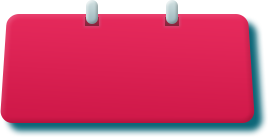
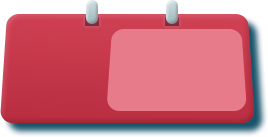
重连 调整效果

diff --git a/basketball_hot/minigame_basketball_hot/src/game/basket/MainScenePanel.ts b/basketball_hot/minigame_basketball_hot/src/game/basket/MainScenePanel.ts
@@ -39,6 +39,12 @@ module ui {
 		public label_score_other:eui.Label
 		public label_left_time:eui.Label
 		public img_juesha:eui.Image
+		public img_guide_circle:eui.Image
+		public img_guide_hand:eui.Image
+		public m_guide_group:eui.Group
+		public img_help:eui.Image
+		public btn_debug:eui.Button
+		public m_offline_tips:eui.Group
 
 		private _playerBall:PlayerBall
 		private _hitManager:HitManager
@@ -93,15 +99,35 @@ module ui {
 			this.m_container.addEventListener(egret.TouchEvent.TOUCH_BEGIN, this._onTouchBegin, this);
 			let __this = this
 			this.btn_help.addEventListener(egret.TouchEvent.TOUCH_BEGIN, function(event:egret.Event){
+				__this.img_help.visible = true
+				__this.img_help.scaleX = __this.img_help.scaleY = 0
+				egret.Tween.get(__this.img_help).to({"scaleX": 1, "scaleY": 1}, 0.2 *1000)
 				event.stopPropagation()
 			}.bind(this), this)
-			this.btn_help.addEventListener(egret.TouchEvent.TOUCH_TAP, function(event:egret.Event){
+
+			this.btn_help.addEventListener(egret.TouchEvent.TOUCH_END, function(event:egret.Event){
+			egret.Tween.get(__this.img_help).to({"scaleX": 1, "scaleY": 1}, 0.1 *1000).call(function(){
+					__this.img_help.visible = false
+				})
+			}.bind(this), this)
+
+			this.btn_help.addEventListener(egret.TouchEvent.TOUCH_CANCEL, function(event:egret.Event){
+				egret.Tween.get(__this.img_help).to({"scaleX": 1, "scaleY": 1}, 0.1 *1000).call(function(){
+					__this.img_help.visible = false
+				})
+			}.bind(this), this)
+
+			this.btn_debug.addEventListener(egret.TouchEvent.TOUCH_BEGIN, function(event:egret.Event){
+				let debugPanel = new DebugPanel()
+				this.addChild(debugPanel)
+				event.stopPropagation()
 			}.bind(this), this)
 		}
 
 		//真正开始游戏
 		public StartGame():void
 		{
+			this._showGuide()
 			this._hasGameStarted = true
 			this._is_first_round = true
 			this._hasTouchBegin = false //整个游戏是否点击
@@ -139,6 +165,33 @@ module ui {
 			this.UpdateScore()
 		}
 
+		private _showGuide():void
+		{
+			let value = egret.localStorage.getItem("guide4")
+			if(value){
+				return
+			}
+
+			let __this = this
+			this.img_guide_circle.visible = true
+			this.img_guide_circle.scaleX = this.img_guide_circle.scaleY = 1
+			egret.Tween.get(this.img_guide_circle, {loop:true}).to({scaleX:2, scaleY:2}, 0.5 * 1000).call(function(){
+				__this.img_guide_circle.scaleX = __this.img_guide_circle.scaleY = 1
+			})
+
+			this.img_guide_hand.visible = true
+			this.img_guide_hand.scaleX = this.img_guide_hand.scaleY = 2
+			this.m_guide_group.scaleX = this.m_guide_group.scaleY = 1
+			this.m_guide_group.visible = true
+			egret.Tween.get(__this.img_guide_hand, {loop:true}).to({scaleX:1.6, scaleY:1.6}, 0.3 * 1000).call(function(){
+				egret.Tween.get(__this.m_guide_group).to({scaleX:0.98, scaleY:0.98}, 0.2 * 1000, egret.Ease.sineIn).to({scaleX:1, scaleY:1}, 0.2 * 1000)
+			}).to({scaleX:1, scaleY:1}, 0.2 * 1000).call(function(){
+				__this.img_guide_hand.scaleX = __this.img_guide_hand.scaleY = 2
+			})
+			
+			// egret.localStorage.setItem("guide4", "true")
+		}
+
 		private _startTimer():void
 		{
 			var timer:egret.Timer = new egret.Timer(1000, this.serverModel.MAX_TIME);
@@ -157,7 +210,7 @@ module ui {
 			{
 				this._on_game_over()
 			}
-			if(this.serverModel.left_time == 0){
+			if(this.serverModel.left_time == 0 && !this._is_ya_shao){
 				SoundManager.getInstance().playSound("last_one_second_mp3")
 			} else if(this.serverModel.left_time <= 5){
 				SoundManager.getInstance().playSound("dead_line_tips_mp3")
@@ -190,6 +243,7 @@ module ui {
 			this._playerBall.OnGameOver()
 			this._clearTimer()
 
+			//延迟一点时间弹出去
 			let platform_finish_delay_time = 1
 			if(this._is_ya_shao){
 				platform_finish_delay_time = 2
@@ -205,9 +259,11 @@ module ui {
 		{
 			this._has_goal = has_global
 			if(has_global){
-				this.AddScore(score)
 				this._allScores.push(score)
-				GameNet.reqShoot(score)
+				if(GameNet.isConnected() || Config.debug){
+					this.AddScore(score)
+					GameNet.reqShoot(score)
+				}
 				this._playerBall.UpdateCurrentAfterImage()
 				this.NextRound()
 			}
@@ -322,6 +378,9 @@ module ui {
 
 		private _onTouchBegin(event : egret.TouchEvent):void
 		{
+			this.img_guide_circle.visible = false
+			this.img_guide_hand.visible = false
+			this.m_guide_group.visible = false
 			if(!this._hasGameStarted){
 				return
 			}
@@ -411,7 +470,7 @@ module ui {
 				__this.img_board_body.filters = []
 				__this._board_pre_display.filters = []
 				__this._board_back_display.filters = []
-			}.bind(this), 1000 *0.5, this)
+			}.bind(this), 1000 *0.3, this)
 		}
 
 		public PlayNetAnimation(hitNetType:HitNetType)
@@ -442,7 +501,7 @@ module ui {
 		//连击
 		public ShowComboAnimation(combo_count:number):void
 		{
-			this.label_combo.text = 'cx' + combo_count.toString();
+			this.label_combo.text = combo_count.toString() + 'xc'
 			this.label_combo.scaleX = this.label_combo.scaleY = 0.2
 			let __this = this
 			this.label_combo.visible = true
@@ -479,7 +538,7 @@ module ui {
 		//得分特效
 		public ShowScoreAnimation(score:number, lianxu_count:number):void
 		{
-			let is_juesha = true
+			let is_juesha = false
 			let img_path = BasketUtils.GetScorePng(score, lianxu_count);
 			if(score == BasketScore.YA_SHAO_GOAL){
 				img_path = BasketUtils.YA_SHAO_Png
@@ -637,6 +696,7 @@ module ui {
 		
 		private onDisconnected():void
 		{
+			this.m_offline_tips.visible = true
 			if(this._is_game_over){
 				return
 			}
@@ -661,15 +721,21 @@ module ui {
 
 		private async reconnect()
 		{
-			await GameNet.connectServer();
-			await GameNet.reqLogin(User.roomId);
-			await GameNet.reqReEnter()
+			await GameNet.connectServer()
+			await GameNet.reqLogin(User.roomId)
+			//断线重连 同步我的分数给服务器
+			let total = 0
+			for(let index = 0; index < this._allScores.length; index++)
+			{
+				total += this._allScores[index]
+			}
+			await GameNet.reqReEnter(total)
 			this.is_connecting = false
+			this.m_offline_tips.visible = false
 		}
 
 		private onReEnterPush(msgId, body)
 		{
-			// log("onReEnterPush", body)
 			this.serverModel.ReEnterUpdateRoleInfo(body.player_list, body.score)
 			this.UpdateScore()
 		}

diff --git a/basketball_hot/minigame_basketball_hot/src/game/common/io/GameNet.ts b/basketball_hot/minigame_basketball_hot/src/game/common/io/GameNet.ts
@@ -84,7 +84,7 @@ module io {
 			});				
 		}
 
-		public async reqReEnter(callback ?:any) {
+		public async reqReEnter(totalScore, callback ?:any) {
 			let self = this;
 			return new Promise((resolve, reject) => {
 				self.on(GameNet.GAME_PROTOCOL.CMD_H5_SHOOT_REENTER_RSP, function (msgId, body) {
@@ -96,7 +96,8 @@ module io {
 					}
 				});
 				self.send(GameNet.GAME_PROTOCOL.CMD_H5_SHOOT_REENTER_REQ, {
-					openid: User.openId
+					openid: User.openId,
+					total:totalScore
 				});
 			});				
 		}

diff --git a/basketball_hot/minigame_basketball_hot/src/game/common/io/Net.ts b/basketball_hot/minigame_basketball_hot/src/game/common/io/Net.ts
@@ -169,7 +169,7 @@ module io {
 
 		protected onSocketClose(event:egret.Event):void {			
 			console.log(this.name, 'disconnected');
-			log('disconnected onSocketClose')
+			// log('disconnected onSocketClose')
 			if (!this.closeFlag) {
 				// ui.WindowManager.getInstance().open('WaitingWindow', 1000606);
 				setTimeout(this.reconnect.bind(this), 3000);

diff --git a/basketball_hot/minigame_basketball_hot/src/game/basket/GamePlatform.ts b/basketball_hot/minigame_basketball_hot/src/game/basket/GamePlatform.ts
@@ -46,11 +46,11 @@ class GamePlatform {
 	{
 		if(typeof(bdm) != "undefined" && typeof(bdm.args) != "undefined")
 		{
-			console.log(bdm.args.openid)
+			// console.log(bdm.args.openid)
 			return bdm.args.openid
 		}
-		log(bdm.args)
-		log(window.location)
+		// log(bdm.args)
+		// log(window.location)
 		return ""
 	}
 

diff --git a/basketball_hot/minigame_basketball_hot/src/Main.ts b/basketball_hot/minigame_basketball_hot/src/Main.ts
@@ -64,7 +64,7 @@ class Main extends eui.UILayer {
         
         if(User.openId == "")
         {
-            User.openId = GamePlatform.GetMyOpenId()
+            User.openId = GamePlatform.GetMyOpenId().toString()
         }
 
         if(User.roomId == "")

diff --git a/basketball_hot/minigame_basketball_hot/src/game/common/Config.ts b/basketball_hot/minigame_basketball_hot/src/game/common/Config.ts
@@ -6,7 +6,7 @@ class Config {
 	public static enableBgm = true;
 	public static enableSound = true;
 	public static lang = 'wy';
-	public static debug = 1;
+	public static debug = 0;
 	public static maintain = 0;
 
 	public static setConfig(key, value) {

diff --git a/basketball_hot/minigame_basketball_hot/src/game/basket/ScoreFireEffect.ts b/basketball_hot/minigame_basketball_hot/src/game/basket/ScoreFireEffect.ts
@@ -110,6 +110,8 @@ class ScoreFireEffect extends BaseEffect{
 		}
 		this._container.addChild(this)
 		this._container.setChildIndex(this, 1)
+		this.scaleX = this.scaleY = 1.1
+		this.y -= 20
 	}
 
 	public FirstGenerate():void

diff --git a/basketball_hot/minigame_basketball_hot/src/game/basket/ServerModel.ts b/basketball_hot/minigame_basketball_hot/src/game/basket/ServerModel.ts
@@ -15,7 +15,7 @@ class ServerModel {
 
 	public myRole:RoleInfo
 	public otherRole:RoleInfo
-	public MAX_TIME:number = 60
+	public MAX_TIME:number = 6000
 	public constructor() {
 	}
 

diff --git a/basketball_hot/minigame_basketball_hot/libs/exml.e.d.ts b/basketball_hot/minigame_basketball_hot/libs/exml.e.d.ts
@@ -2,3 +2,7 @@ declare class MainScene extends eui.Skin{
 }
 declare class Setting extends eui.Skin{
 }
+declare module skins{
+	class TextInputSkin extends eui.Skin{
+	}
+}
